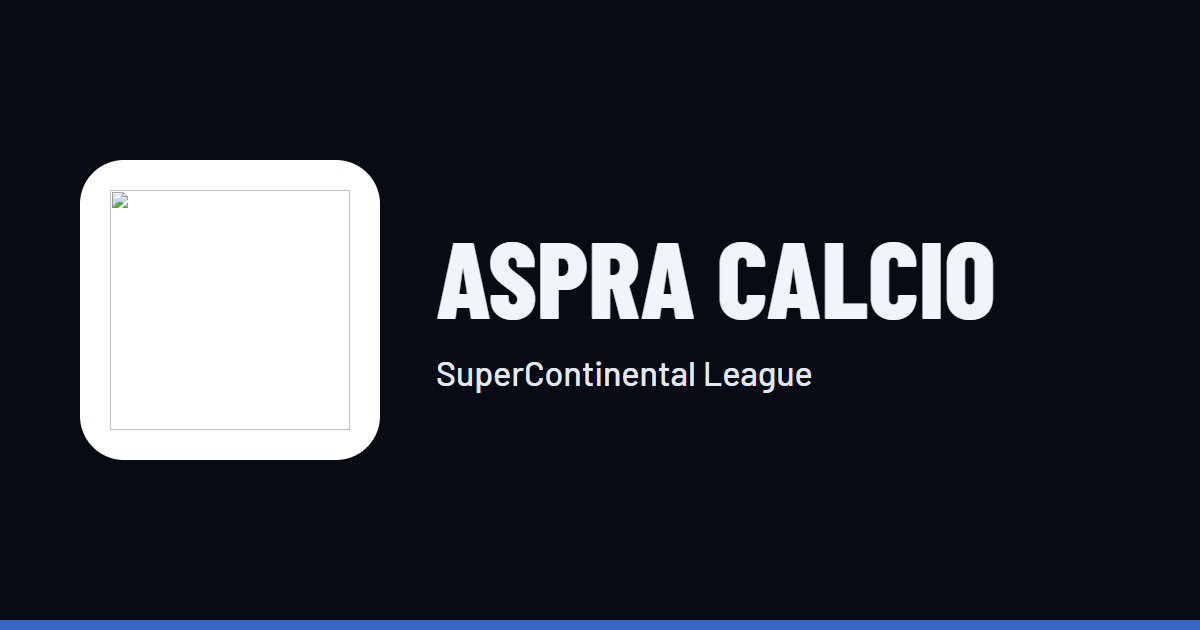
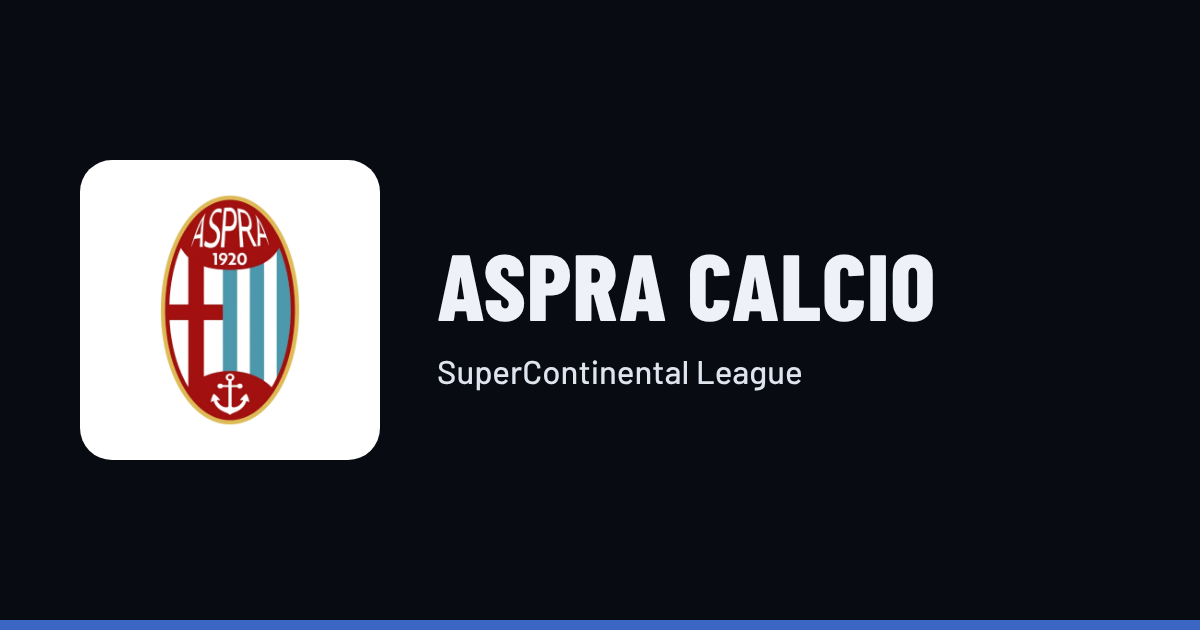
Vistas previas de clubes: tarjeta primero y tarjeta de Aspra rehecha
- La tarjeta del club (1200x630) va antes que la foto del estadio: WhatsApp la muestra grande.
- Un club con el logo generico de la web y sin tarjeta (Hoxton United FC por ahora) usa la imagen
  de la liga en lugar de la pelota en miniatura.
- Tarjeta de Aspra Calcio rehecha con su escudo (public/Logos_equipos/asp_calc.webp): estaba con la
  imagen rota. Sale la de Sendai Ryuden, que ya no esta en la liga.

Claude-Session: https://claude.ai/code/session_01SP1md1zCgqsr6szRKTrK4R

diff --git a/utils/sharePages.js b/utils/sharePages.js
@@ -1,6 +1,6 @@
 // Vistas previas de links (WhatsApp, Telegram, X…) por página de la web de la liga. Esas apps no ejecutan JavaScript:
 // leen las etiquetas del HTML que devuelve el hosting. scripts/build-share-pages.mjs escribe, después del build, un
-// HTML por página (dist/torneo.html, dist/equipos/{id}.html, …) con este bloque de etiquetas; firebase.json
+// HTML por página (dist/torneo.html, dist/equipos/{id}.html, …) con este bloque de etiquetas; vercel.json
 // `cleanUrls` los sirve en /torneo y /equipos/{id}. Puro; tests/sharePages.test.js.
 
 export const SITE_URL = 'https://supercontinental-draft.vercel.app';
@@ -55,10 +55,19 @@ export function pageFile(path) {
   return `${parts.join('/')}.html`;
 }
 
+// utils/constants.js DEFAULT_LOGO: the web's placeholder for a club without a crest.
+const DEFAULT_LOGO_PATH = '/logo.webp';
+const isDefaultLogo = value => {
+  const raw = String(value ?? '').trim();
+  if (!raw) return false;
+  try { return new URL(raw, SITE_URL).pathname === DEFAULT_LOGO_PATH; } catch { return false; }
+};
+
 /**
  * Datos de la vista previa de un club: el apodo, el estadio y de dónde es; si no hay ficha, el comienzo de su historia.
- * Imagen: la foto del estadio; si no hay, la tarjeta del club (public/og/clubs/{id}.png, escudo y nombre); si
- * tampoco, el escudo en tarjeta chica.
+ * Imagen: la tarjeta del club (public/og/clubs/{id}.png, 1200x630, escudo y nombre), que WhatsApp muestra grande;
+ * si no hay, la foto del estadio; si tampoco, el escudo en tarjeta chica. Un club sin escudo propio (el logo genérico
+ * de la web, como uno recién sumado) no lleva imagen: queda la de la liga, grande.
  * @param {{ id: string, teamName: string, logoUrl?: string }} team
  * @param {{ body?: string, profile?: object } | null} content el doc league_content/club-{id}
  * @param {{ card?: string | null }} [options] card: ruta de la tarjeta del club, si existe
@@ -79,13 +88,13 @@ export function clubPage(team, content, siteUrl = SITE_URL, { card = null } = {}
     : clip(firstParagraph || `Historia, palmarés y plantel de ${name} en la ${SITE_NAME}.`);
   const photo = absoluteUrl(profile.stadiumPhotoUrl, siteUrl);
   const cardUrl = absoluteUrl(card, siteUrl);
-  const crest = absoluteUrl(team?.logoUrl, siteUrl);
+  const crest = isDefaultLogo(team?.logoUrl) ? null : absoluteUrl(team?.logoUrl, siteUrl);
   return {
     path: `/equipos/${team.id}`,
     title: `${name} · ${SITE_NAME}`,
     description,
-    image: photo || cardUrl || crest || null,
-    largeImage: Boolean(photo || cardUrl),
+    image: cardUrl || photo || crest || null,
+    largeImage: Boolean(cardUrl || photo),
   };
 }
 

diff --git a/tests/sharePages.test.js b/tests/sharePages.test.js
@@ -39,6 +39,17 @@ describe('clubPage', () => {
     expect(page).toMatchObject({ image: 'https://img.test/estadio.jpg', largeImage: true });
   });
 
+  it('prefers the club card over the stadium photo', () => {
+    const page = clubPage(team, { profile: { stadiumPhotoUrl: 'https://img.test/estadio.jpg' } }, SITE, { card: '/og/clubs/u01.png' });
+    expect(page).toMatchObject({ image: 'https://example.test/og/clubs/u01.png', largeImage: true });
+  });
+
+  it('falls back to the league image for a club with the placeholder crest and no card', () => {
+    const page = clubPage({ ...team, logoUrl: '/logo.webp' }, null, SITE);
+    expect(page.image).toBeNull();
+    expect(shareTags(page, SITE)).toContain('og/liga.png');
+  });
+
   it('uses the club card as a large image when there is no stadium photo', () => {
     const page = clubPage(team, null, SITE, { card: '/og/clubs/u01.png' });
     expect(page).toMatchObject({ image: 'https://example.test/og/clubs/u01.png', largeImage: true });
